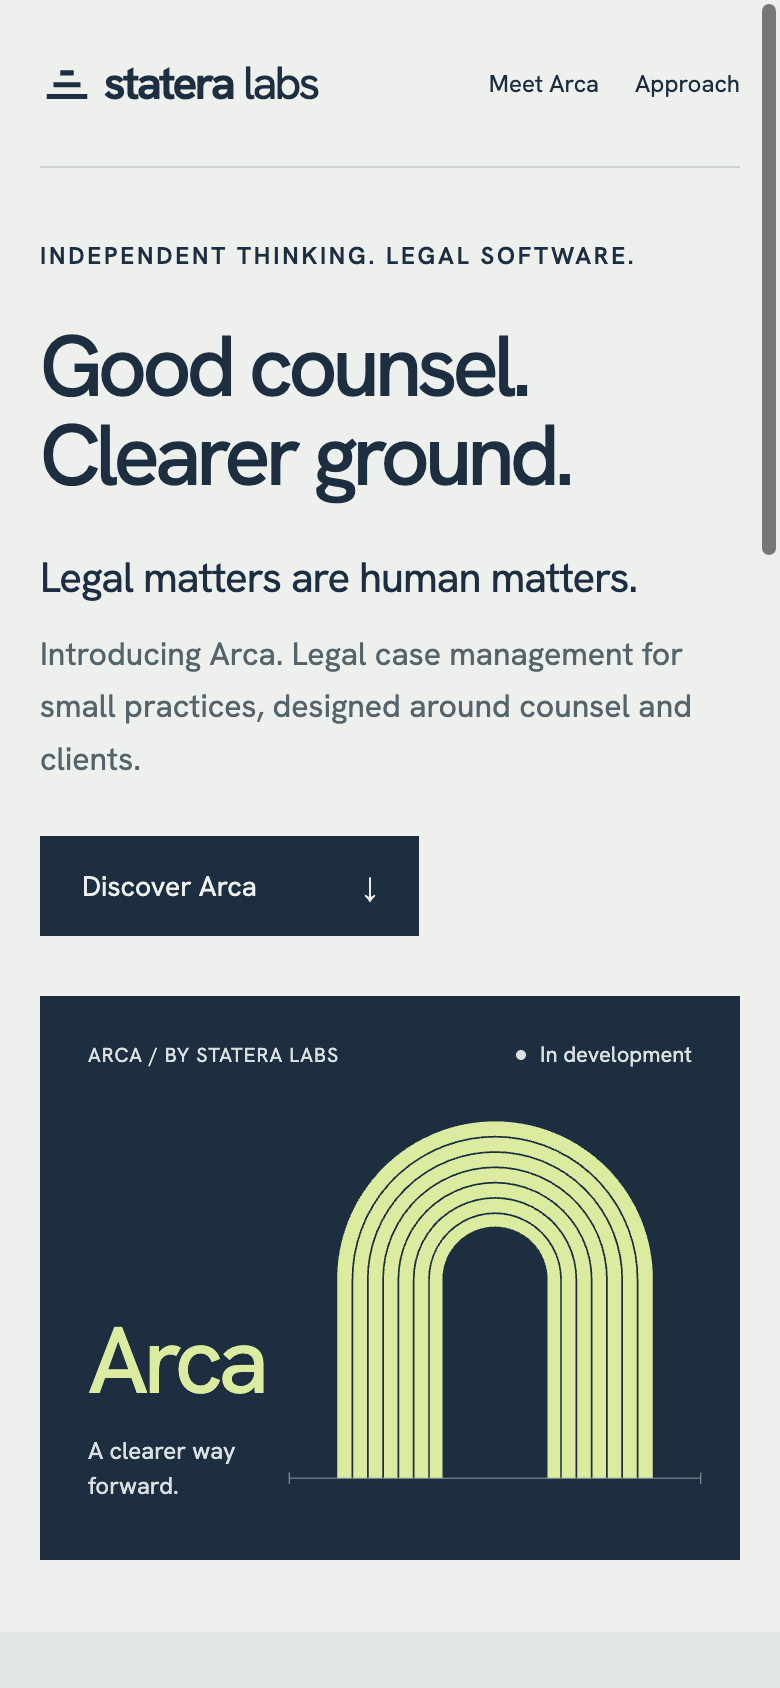
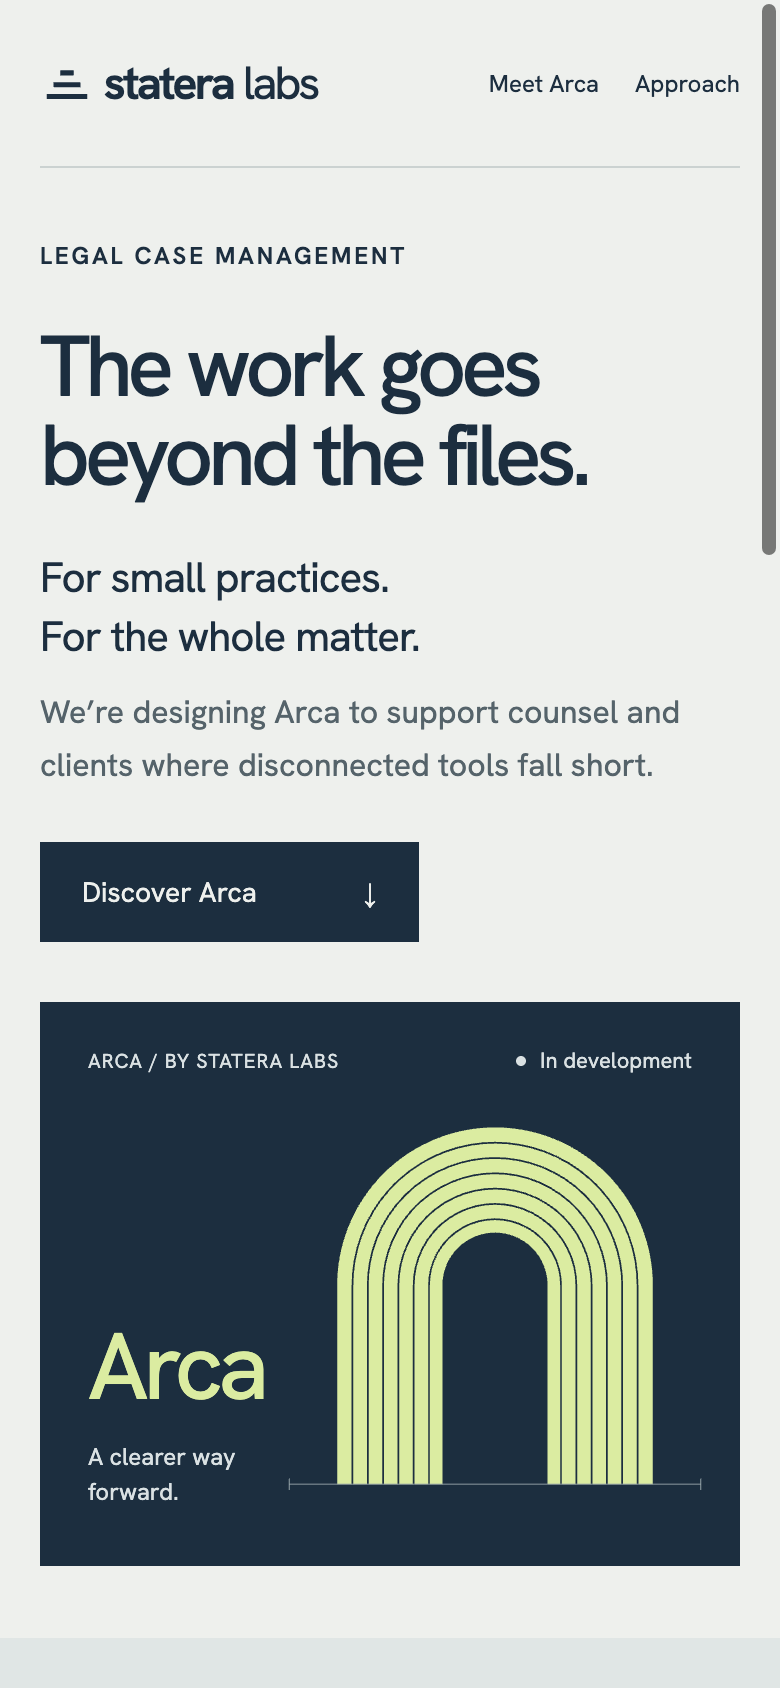
Lead with the founder problem and record final council evidence

diff --git a/index.html b/index.html
@@ -3,7 +3,7 @@
   <head>
     <meta charset="utf-8" />
     <meta name="viewport" content="width=device-width, initial-scale=1" />
-    <title>Statera Labs — Good counsel. Clearer ground.</title>
+    <title>Statera Labs — The work goes beyond the files.</title>
     <meta
       name="description"
       content="Meet Arca, legal case management in development for small practices. From Statera Labs. Designed around counsel and clients."
@@ -11,7 +11,7 @@
     <meta name="theme-color" content="#edf0ed" />
     <meta
       property="og:title"
-      content="Statera Labs — Good counsel. Clearer ground."
+      content="Statera Labs — The work goes beyond the files."
     />
     <meta
       property="og:description"
@@ -44,12 +44,16 @@
     <main id="main">
       <section class="hero wrap" aria-labelledby="hero-title">
         <div class="hero-copy">
-          <p class="eyebrow">Independent thinking. Legal software.</p>
-          <h1 id="hero-title">Good counsel.<br />Clearer ground.</h1>
-          <p class="lede">Legal matters are human matters.</p>
+          <p class="eyebrow">Legal case management</p>
+          <h1 id="hero-title">The work goes<br />beyond the files.</h1>
+          <p class="lede">
+            For small practices.<span class="audience-rest">
+              For the whole matter.</span
+            >
+          </p>
           <p class="hero-description">
-            Introducing Arca. Legal case management for small practices,
-            designed around counsel and clients.
+            We’re designing Arca to support counsel and clients where
+            disconnected tools fall short.
           </p>
           <a class="button" href="#arca"
             >Discover Arca <span aria-hidden="true">↓</span></a

diff --git a/styles.css b/styles.css
@@ -896,3 +896,9 @@ h3 {
     font-size: 21px;
   }
 }
+
+@media (max-width: 760px) {
+  .audience-rest {
+    display: block;
+  }
+}

diff --git a/docs/ui-polish/README.md b/docs/ui-polish/README.md
@@ -22,3 +22,20 @@ can be reviewed at a readable scale.
 
 No application build step or runtime JavaScript is needed. The temporary audit
 script was removed after the browser check and is not part of the site.
+
+## Independent agent council
+
+Three reviewers assessed desktop/mobile screenshots from separate initial
+contexts without receiving the desired passing score. They reviewed successive
+revisions, compared a separate serif/dark art-direction study, and discussed
+their final rubrics while retaining independent ratings.
+
+| Reviewer | Final score | Assessment                                                                            |
+| -------- | ----------- | ------------------------------------------------------------------------------------- |
+| UX       | 9.0 / 10    | Excellent clarity, reading hierarchy, and prelaunch framing.                          |
+| Visual   | 8.9 / 10    | Strong composition and identity; originality is strong rather than category-defining. |
+| Brand    | 8.5 / 10    | Polished and recognizable; more weight reserved for exceptional, ownable expression.  |
+
+All three recommend shipping and report no material visible issue. Their
+remaining differences concern subjective weighting of distinctiveness, not an
+unresolved defect. These are agent assessments, not external user research.

diff --git a/README.md b/README.md
@@ -13,8 +13,7 @@ symbols express a common ground for counsel and clients. They are conceptual
 artwork, not a product screenshot or final logo. The page has three numbered
 sections: the product, our approach, and development status.
 
-Company: **Statera Labs**. Product: **Arca**. Lead line: **Good counsel. Clearer
-ground.** Positioning: legal case management for small practices, designed
+Company: **Statera Labs**. Product: **Arca**. Lead line: **The work goes beyond the files.** Positioning: legal case management for small practices, designed
 around counsel and clients. The copy hints at intent without promising planned
 behavior, a launch date, pricing, customers, certifications or a demo. There is
 no signup and nothing is collected.
